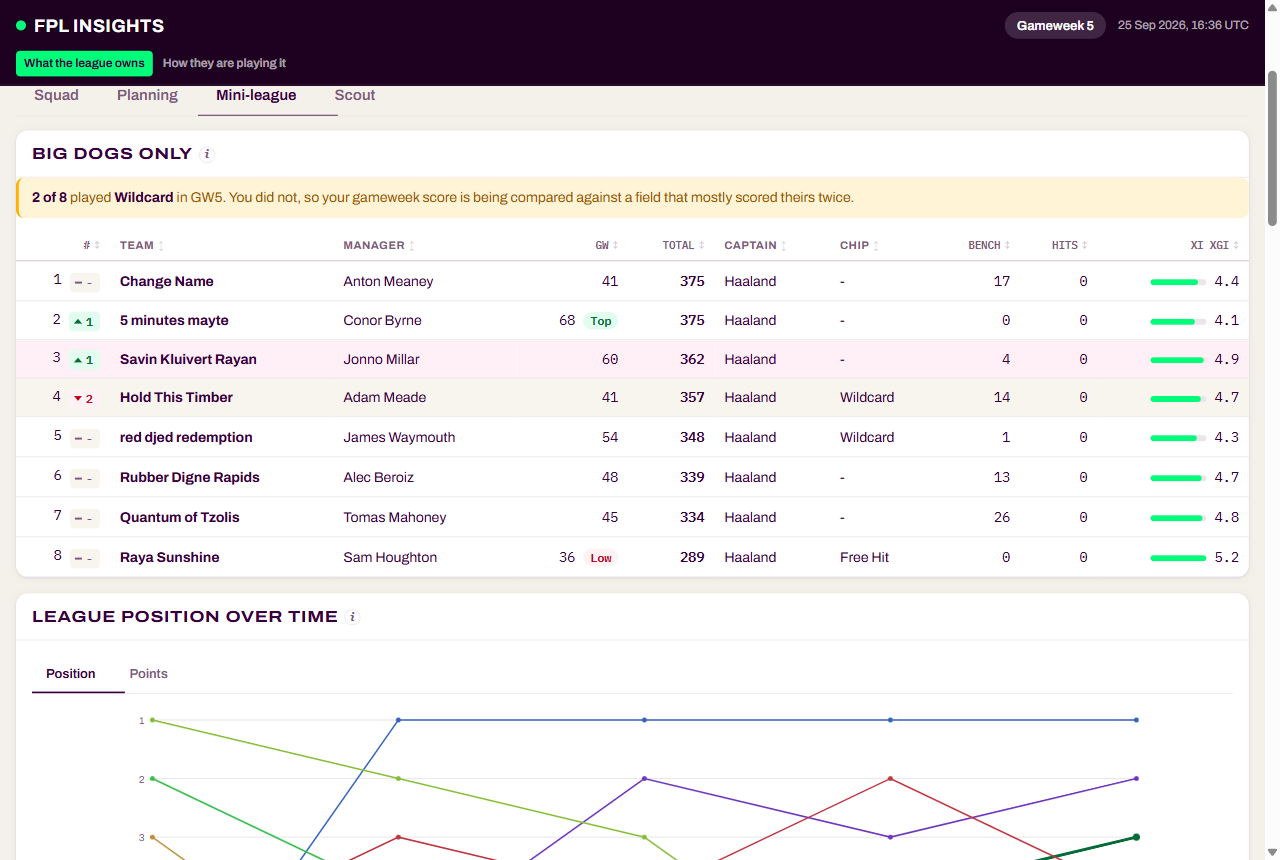
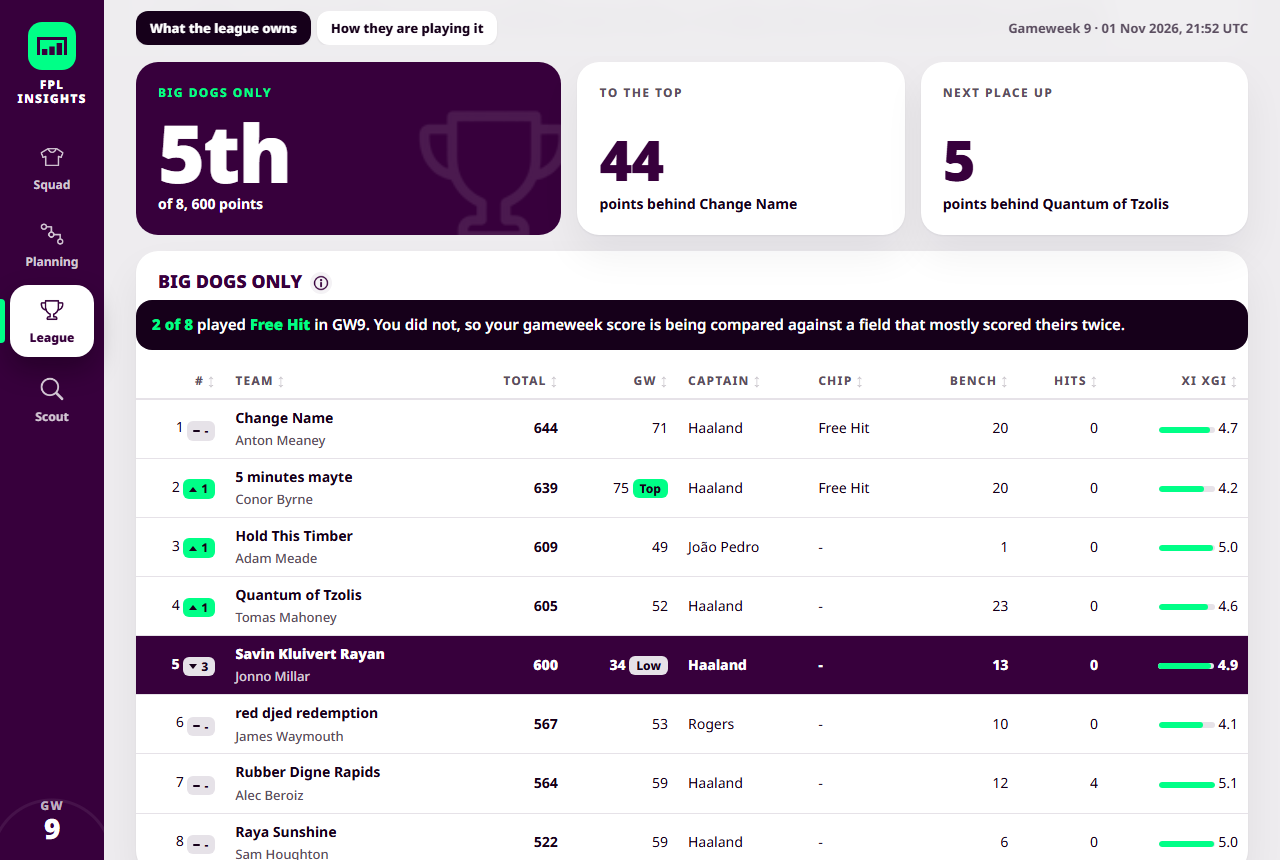
design: docs, screenshots and a deck click fix for the redesign
A dismissed deck card is invisible but flung over the previous/next
buttons and was swallowing their clicks; only the top card now takes
the pointer (checked with real mouse clicks). README, module
docstring, design.md and HANDOFF describe the built design; README
screenshots and the social preview are regenerated; tablet layouts
stack the move row and keep the deck fan clear of the panel edge.

diff --git a/dashboard.css b/dashboard.css
@@ -2206,7 +2206,7 @@ dialog.scoutpv::backdrop{background:rgb(30 0 33 / 62%)}
 .cap-xp{position:relative; margin-top:auto; display:flex; align-items:flex-end; gap:10px}
 .cap-xp .big{font-size:64px}
 .cap-xp span{font-size:13px; font-weight:700; line-height:1.25; padding-bottom:4px; max-width:84px}
-@media (max-width:980px){.move-row{grid-template-columns:minmax(0,1fr)}}
+@media (max-width:1180px){.move-row{grid-template-columns:minmax(0,1fr)}.captain-card{min-height:300px}}
 @media (max-width:560px){
   .move-stage{padding:20px 16px}
   .brief-action{font-size:28px}
@@ -2526,13 +2526,14 @@ dialog.scoutpv::backdrop{background:rgb(30 0 33 / 62%)}
 .deck-idx .tnum{font-weight:900; font-size:17px}
 @media (max-width:1180px){
   .deck-panel{grid-template-columns:minmax(0,1fr) minmax(0,380px); padding:28px}
+  .deck{margin-right:72px}
   .deck-list{grid-column:1 / -1; flex-direction:row; flex-wrap:wrap; max-height:none}
   .deck-list li{flex:1 1 220px}
 }
 @media (max-width:700px){
   .deck-panel{grid-template-columns:minmax(0,1fr); padding:22px 16px; gap:18px}
   .deck-intro h2{font-size:30px}
-  .deck{height:560px; max-width:380px; width:100%; justify-self:center}
+  .deck{height:560px; max-width:380px; width:calc(100% - 56px); justify-self:start; margin-right:0}
   .deck-photo{height:230px}
   .deck-body{top:254px; left:20px; right:20px}
   .deck-name{font-size:24px}
@@ -2575,3 +2576,4 @@ dialog.scoutpv::backdrop{background:rgb(30 0 33 / 62%)}
   .cap-opp{max-width:48%}
   .fxrun-chips{flex-wrap:wrap}
 }
+.stage-squad{border:0}

diff --git a/planview.js b/planview.js
@@ -48,6 +48,9 @@
         c.style.zIndex = 50 - Math.abs(rel);
         c.style.transition = dragging && rel === 0 ? 'none' : '';
         c.setAttribute('aria-hidden', String(rel !== 0));
+        // A dismissed card is invisible but flung over the buttons; it must
+        // not catch their clicks. Only the top card takes the pointer.
+        c.style.pointerEvents = rel === 0 ? '' : 'none';
       });
       idx.forEach(function(b, k){ b.setAttribute('aria-current', String(k === i)); });
       if (pos) pos.textContent = i + 1;

diff --git a/dashboard.py b/dashboard.py
@@ -7,37 +7,15 @@ wraps them in the shell. The cards live in one module per tab (cards_squad,
 cards_planning, cards_league, cards_scout), and the styles and page script in
 dashboard.css and dashboard.js.
 
-Colour is FPL's own - the deep purple and the bright green the game is
-actually recognised by - because a tool read alongside the site it draws from
-should look related to it. What changed is how that colour is spent.
+The look is specified in docs/design.md: purple, night, green, white and a
+paper ground; Noto Sans only, tabular figures everywhere; the generated icon
+set as one embedded sprite; player cut-outs standing on coloured cards. Two
+constraints worth keeping in mind when editing:
 
-The page used to open on a 135-degree three-stop gradient, purple bleeding
-through lilac into green. That is the default hero of every generated
-dashboard, and it was the thing that made this one look generated. It is
-gone. Purple is now structure and ink, green is one accent used flat, and
-the character comes from type and layout instead of from a colour wash:
-
-* Type is Noto Sans throughout - plain letters and numbers, plain zero, real
-  weights up to 800 - with tabular figures on the whole page, so columns of
-  stats align on the digit the way a results service does.
-* One delta chip carries every number that has a good or bad reading, rather
-  than each card inventing its own arrow.
-* Findings read as a mono subject tag beside ordinary prose, not as a bold
-  black line with grey underneath it, which is the pattern that made every
-  card on the page look like every other card.
-
-Two constraints worth keeping in mind when editing:
-
-* Green is a fill, never type. #01fc7a is 1.35:1 on white, so anything that
-  lands on text uses --accent-ink / --good-ink instead.
-* Difficulty pills always carry a visible opponent and number. Several steps
-  on the ramp are too close in luminance to carry meaning by fill alone, so
-  the label does the work and the colour only makes a run visible down a
-  column.
-
-Light only. There is no dark theme and no toggle - the page is read in
-daylight before a deadline, and carrying a second full palette meant every
-new colour had to be drawn twice and kept in step.
+* Nothing means something by hue alone. A gain carries its sign or arrow, a
+  state changes fill, weight or shape, and a fixture pill prints the opponent
+  and the number.
+* Green is a fill, never type on white: #00ff87 is about 1.3:1 there.
 """
 
 import base64

diff --git a/docs/HANDOFF.md b/docs/HANDOFF.md
@@ -1,12 +1,12 @@
 # HANDOFF — FPL Insights
 
-Last updated: 1 November 2026 (redesign direction agreed; design.md written; icon set assessed). Older checkpoint detail lives in git history (`git log -p docs/HANDOFF.md`).
+Last updated: 1 November 2026 (full redesign built on main, all four tabs; not pushed). Older checkpoint detail lives in git history (`git log -p docs/HANDOFF.md`).
 
 ## State
 
-- Live: [fpl-insights-jm.vercel.app](https://fpl-insights-jm.vercel.app/), built by GitHub Actions from origin/main. It does not yet have the redesigned UI or the transfer planner.
+- Live: [fpl-insights-jm.vercel.app](https://fpl-insights-jm.vercel.app/), built by GitHub Actions from origin/main. It does not yet have the redesign or the transfer planner.
 - Local main is 33 commits ahead of origin/main and 35 behind (scheduled bot commits). Not pushed. Before publishing: fetch, integrate the bot commits, run a fresh full build plus tests and browser checks, then push. Don't publish until Jonno says so.
-- Main holds: Codex's compact UI, Claude's transfer planner, plan moves as transfer cards (`b16cce6`), copy cuts (`d5c10b3`). Last verified: 112 tests, `node --check` on all `.js`, full build with 10 sources OK, headless Chromium at 1440/375/320.
+- Main holds the transfer planner and the full redesign (commits `0925aa2`..HEAD). Last verified 1 Nov: 112 tests, `node --check` on all `.js`, fresh `cli.py dashboard --out .cache/ui/final.html` with every source OK, headless Chromium at 1440/1024/375/320 with no page overflow or console errors, and scripted checks of the brief-to-plan jump, week tiles and arrow keys, deck buttons (real mouse clicks)/drag/list, fixture-run switch, player dialog and transfer preview.
 - Owners: Claude owns frontend and planner. Codex owns the data-research audit under `research/` (entry point `research/log.md`; production code untouched by it).
 
 ## Separate track: managed account experiment
@@ -18,19 +18,22 @@ An active local review heartbeat is configured; its first unattended execution
 is not yet verified. Dashboard entry/configuration, product code, alert project
 and publication are unchanged. Existing staged research remains separate.
 
-## Now: full redesign (direction agreed 1 November 2026)
+## Now: redesign built, awaiting Jonno's review (1 November 2026)
 
-Spec: [`docs/design.md`](design.md), written from the F-Kit board with Noto Sans in place of Archivo, plus the icon-set assessment. Boards copied to `docs/design-reference/` (F-Kit, F-Desktop, F-Phone; images are canvas blob ids and don't render locally). Canvas comments are all from 27-28 Oct and already folded into the rules below; none on the final draft.
+Spec: [`docs/design.md`](design.md) (F-Kit with Noto Sans; "Where it is implemented" maps each part to code). Boards in `docs/design-reference/`. Built in one session on main, all four tabs, commits `0925aa2`..HEAD:
 
-Icon set (`brand-handoff/transparent-suite/`, 40 generated icons, Codex delivery of 1 Nov): good fit, adopt it, with four pack-time fixes listed in design.md (Planning crop, faint strokes on corners/saves/free kicks/injured, yellow card's phone-like bar, 3.19MB of atlases packed to one 56KB sprite). Rejected `vector-suite/` and old `drafts/` stay unused. Logo geometry still a draft.
+- Shell: purple side rail with the goal-chart mark and icon tabs (selected = white tile, heavier label, green notch), night glass tab bar on phones, sticky chapter rail, paper ground. Icons: generated set packed by `scripts/pack_icons.py` into `assets/icons.png` (90 KB, embedded). Portraits now alpha WebP.
+- Squad: night score card, season and league tiles, green up-next panel, next move as transfer cards with cut-outs and opponent crests, captain card with ring behind, purple pitch, iconed findings without coloured edges.
+- Planning: eight week tiles over one stage (moves, roll coin, chip bench; squad pitch per week in a disclosure), purple plan summary, swipe deck of other options on the green panel (replaced the old single/pair card lists, now deleted), chip coins, Buy/Sell/Keep/Avoid on four fills, odds tiles by fill, knee-jerk with cut-out, night band of glass crest tiles for fixture runs.
+- League: place card plus gaps to leader and next place, grey rivals and named line ends on the position chart, purple "you" row, league-owns gaps beside the template, your starters tagged "You".
+- Scout: inherits tokens, ramps and type; fixture card retitled.
+- Ramps redrawn night-grey-paper-green-deep green (greyscale test passes); every hue-only signal found was given a shape, line style, word or fill change.
 
-Build order (one phase per session, commit at each gate, nothing pushed until Jonno says):
-
-0. Integrate origin first: local main was 33 ahead / 35 behind (bot commits). Fetch, merge, regenerate generated files, run tests. Then the icon packer: `assets/icons.png` + names, embedded by `dashboard.py` as a data URI; `.ico` classes. Unit test that every name resolves to a non-empty cell.
-1. Foundation: replace the CSS tokens with design.md's (drop lilac scale and every hue-coded state token), Noto 400-900, shape/shadow/motion variables; rail with logo and icon tabs plus distinct selected state; phone bottom tab bar. Check logo at 16/24/32px.
-2. Planning tab to F-Desktop/F-Phone: week stage, hero transfer card, captain card, green panel with swipe deck, night band with crest tiles, last-week card. Compare with `.cache/ui/moves-before-{1440,375}.png`. **Show Jonno the live build here before rolling out.**
-3. Squad tab, 4. Mini-league, 5. Scout: no boards exist; build from the kit components, absorb the "Seen, not fixed" layout items, show Jonno each.
-6. Clean-up: delete dead CSS (dashboard.css is 2,758 lines), regenerate `docs/og.png`, update README, full build, tests, browser checks at 1440/375/320.
+Next: Jonno reviews the local build (`python cli.py dashboard --open`, or the README screenshots, regenerated). Known gaps worth his eye:
+- Logo is still the draft geometry, used in the rail and favicon; 16/24/32px review not done.
+- Icons are as delivered (thin lines on a few; yellow card's bar). Jonno: "sort icons after".
+- Captaincy radar and the Scout heatmap were restyled through tokens only, not rebuilt.
+- F-Desktop's "Rising soon" aside and white last-week card were not carried over (squad tab already shows last week).
 
 Decisions needed from Jonno (recommendation first):
 - Faint icons: thicken corners, saves, free kicks and injured at pack time (dilation keeps the generated drawing) vs regenerate them.
@@ -57,17 +60,13 @@ Canvas mechanics:
 
 ## Awaiting Jonno
 
-1. Two icon decisions (see "Now: full redesign").
+1. Review the built redesign; two icon decisions (see "Now").
 2. Push/publish (see State).
 3. Build the Wildcard + Bench Boost comparison? (analysis below)
 4. Sanity check on Cherki, sold in GW9 for Palmer.
 
 ## Seen, not fixed
 
-- Scout: "Fixture runs" chapter band sits directly over a card of the same name.
-- Mini-league: "The league has these, you do not" sits alone in a row.
-- Goals-against-expected legend separates "owed goals" from "running hot" by green vs amber hue alone.
-- Three grids still use a bare 300px minimum (price watch `.pw-cols`, `.fxruns`, an `auto-fill` grid in `dashboard.css`); unchecked at 320px. The fix used on `.tflist` is `minmax(min(100%,300px),1fr)`.
 - Chip planner's Wildcard total (470.0 → 509.4 over GW9–16) disagrees with the transfer plan's 549 for the same window; likely a different scorer or no captain/bench. Check before showing both together.
 - Two scorers: Squad pitch uses match-history xP, the plan uses the season-based transfer scorer (66.1 vs 70.0 for the same XI on 21 Oct). The Starting XI disclosure says so. Consolidation not started.
 - Remaining copy issues: `docs/audits/2026-10-21-repetitive-copy.md` (the clear cuts are done in `d5c10b3`).
@@ -105,6 +104,9 @@ Default view: B usually wins, because the Wildcard leaves the template squad. A 
 
 ## Gotchas
 
+- Fast design loop: build once with `dashboard.build(...)` at `ttl=10**9` and `PRICE_HISTORY_PATH` pointed at a scratch copy, pickle the result, then re-run `dashboard.render(d)` after CSS/JS/render edits (card markup changes need the build again, about 50 s cached).
+- Long `python - <<'EOF'` heredocs in Git Bash break on f-strings here; write the script to a file.
+
 - Bot commits can land mid-work; fetch and integrate before pushing, never force-push. Generated-file conflicts resolve with verified regenerated output.
 - FFS team-news: parse only `<li class="team-news-item">` blocks; sidebar widgets once parsed as a club. A player read as "unknown" falls back to a 75% start, hiding benched players.
 - Some PL portraits return 403; existing fallbacks handle it, don't retry. Provider photos can lag transfers (Isak still shows a Newcastle shirt).
@@ -115,5 +117,5 @@ Default view: B usually wins, because the Wildcard leaves the template squad. A 
 ## Resume prompt
 
 ```text
-Read AGENTS.md, docs/HANDOFF.md and docs/design.md. Work on main in C:/Users/jonno/code/fpl-insights. Redesign direction is agreed; start the next phase in "Now: full redesign" (phase 0 first: integrate origin, then the icon packer). Commit by explicit path only (Codex has files staged; never git add -A, stash, reset or checkout). Do not push or publish until Jonno says so.
+Read AGENTS.md, docs/HANDOFF.md and docs/design.md. Work on main in C:/Users/jonno/code/fpl-insights. The full redesign is built and committed locally; ask Jonno for his review of it before changing direction, then act on his notes. Dev loop: a cached build plus pickled data lets CSS/JS changes re-render in seconds (see Gotchas). Commit by explicit path only (Codex has files staged; never git add -A, stash, reset or checkout). Do not push or publish until Jonno says so; before pushing, fetch and integrate the bot commits.
 ```

diff --git a/README.md b/README.md
@@ -38,7 +38,8 @@ and a pipeline that has to keep running unattended.
 - **GitHub Actions** rebuilds it on a schedule; **Vercel** serves it and
   redeploys on every commit.
 - **pytest** for the tests. **Pillow** is optional: when installed it shrinks
-  player photos from ~96 KB PNGs to ~14 KB JPEGs; without it the build still
+  player photos from ~96 KB PNGs to ~10 KB WebPs that keep their transparency
+  (the page stands players on coloured cards); without it the build still
   works, the page is just heavier. CI installs it.
 
 Built with Claude Code as a pair programmer.
@@ -78,26 +79,29 @@ whenever you want current numbers. `--artifact` also writes a complete HTML copy
 
 Four tabs:
 
-- **Squad**: pitch view (Overview, a Pick Team view with next-fixture and form
-  context, and last gameweek), a sortable detail table, and findings cards.
+- **Squad**: the week's score, the next move drawn as transfer cards with the
+  opponent's crest, the captain, the pitch (season, next gameweek with a
+  transfer preview, last gameweek), a sortable detail table and findings cards.
   Click any player for their match-by-match log and Opta stats.
-- **Planning**: what the bookmaker odds imply for the next gameweek, the
-  highest projected XI, transfer suggestions and pairs, captaincy, a chip
-  planner (Free Hit, Triple Captain, Bench Boost, Wildcard), a fixture ticker,
-  price-change watch and elite-manager ownership.
-- **Mini-league**: standings with each rival's gameweek score, captain, chip
-  and the underlying xGI of their starting XI, position over time, the league
-  template, differentials and what rivals are scoring from.
+- **Planning**: the eight-week transfer plan as week tiles over one stage,
+  other transfer options as a swipe deck, captaincy, Buy/Sell/Keep/Avoid, a
+  chip planner (Free Hit, Triple Captain, Bench Boost, Wildcard), the best and
+  worst fixture runs, a fixture ticker, what the odds say, price-change watch
+  and elite-manager ownership.
+- **League**: your place and the gaps around it, standings with each rival's
+  gameweek score, captain, chip and the underlying xGI of their starting XI,
+  position over time, the league template, differentials and what rivals are
+  scoring from.
 - **Scout**: position-by-position labs for finding players, filterable by
   price, minutes and team, with fixture runs.
 
-Styling follows FPL's own stylesheet: brand purple `#37003c` as ink, their
-bright green `#01fc7a` as the single accent, their five-step fixture-difficulty
-colours. Light theme only. FPL's typeface is a licensed Monotype face, so the
-page uses Noto Sans throughout, with tabular figures so columns of numbers
-align. Difficulty pills always carry a
-visible opponent and number, because two of FPL's steps sit at 1.35:1 and
-1.2:1 against white and colour alone would not be readable.
+The design system is in [docs/design.md](docs/design.md): FPL purple `#37003c`,
+night `#16001a`, green `#00ff87`, white and a paper ground, Noto Sans with
+tabular figures, and a generated icon set packed into one embedded sprite
+(`scripts/pack_icons.py`). Nothing on the page means something by hue alone:
+gains carry a sign or arrow, states change fill, weight or shape, and fixture
+pills print the opponent and the number on a dark-to-green ramp that stays
+readable in greyscale.
 
 ## Phone alerts
 
@@ -145,6 +149,7 @@ dashboard.py        page assembly: build() gathers data and cards, render() wrap
 cards_*.py          one module per tab (squad, planning, league, scout) plus shared helpers
 components.py       chart-like building blocks shared across cards
 dashboard.css/.js   the page's styles and script; the other .js files are per-feature
+assets/             the packed icon sprite (scripts/pack_icons.py rebuilds it)
 cli.py              the command-line entry point
 ```
 

diff --git a/docs/design.md b/docs/design.md
@@ -83,11 +83,14 @@ Assessment, 1 November (measured from the atlases):
 - **Overlaps to avoid.** Use Defence for defensive contributions and Clean sheet only for
   clean sheets; Minutes (stopwatch) and Deadline (clock) are not interchangeable.
 
-Production pipeline: a one-off packer reads `catalog.json`, crops each source rectangle
-(with the fixes above), resizes to 64px alpha cells in an 8 x 5 grid and writes
-`assets/icons.png` plus a name-to-index list. Pillow is needed only to repack, not to
-build. `dashboard.py` base64-embeds the PNG with the standard library into one CSS
-custom property; `.ico` plus a modifier class selects a cell by `mask-position`.
+Production pipeline (built 1 November): `scripts/pack_icons.py` reads `catalog.json`,
+keeps each icon's own strokes (dropping spill from neighbouring cells, which fixes the
+Planning crop), squares it and writes 96px alpha cells in an 8 x 5 grid to
+`assets/icons.png` (90 KB) and `assets/icons.css`. Pillow and numpy are needed only to
+repack, not to build. `dashboard.py` base64-embeds the PNG into one CSS custom
+property; `cards_common.icon(name)` emits `<span class="ico ico-name">`, sized with
+`--ico`. Line weights are still as delivered: thickening and the yellow-card bar are
+open decisions.
 
 ## Logo
 
@@ -151,3 +154,18 @@ Show the opponent's crest, not the player's own club.
 Titles state the finding. One headline number per card. Low-key, no boasting. No small
 grey help or info lines; method notes sit behind a disclosure. Keep the
 published-squad, no-double-gameweek and data-unavailable caveats visible once each.
+
+## Where it is implemented
+
+- Shell, tokens, type, icons: top of `dashboard.css`, `render()` in `dashboard.py`.
+- Squad: `render()` (score card, tiles, up-next panel, move stage, captain card),
+  `cards_squad.py` (pitch, findings).
+- Planning: `cards_plan.py` (week tiles and stage), `components.transfer_deck` with
+  `planview.js` (swipe deck), `ticker.fixture_run_summary` (night band), chip coins and
+  Buy/Sell/Keep/Avoid in `cards_planning.py`.
+- League: `league_hero` in `dashboard.py`, `leaguechart.js` (grey rivals, named line
+  ends).
+- Portraits embed as alpha WebP (`fplapi.photo_data_uri`) so cut-outs stand on
+  coloured cards.
+- Ramps: fixture ratings and FPL difficulty run night, grey, paper, green, deep green;
+  `tests/test_scout.py` checks adjacent steps stay apart in greyscale.
